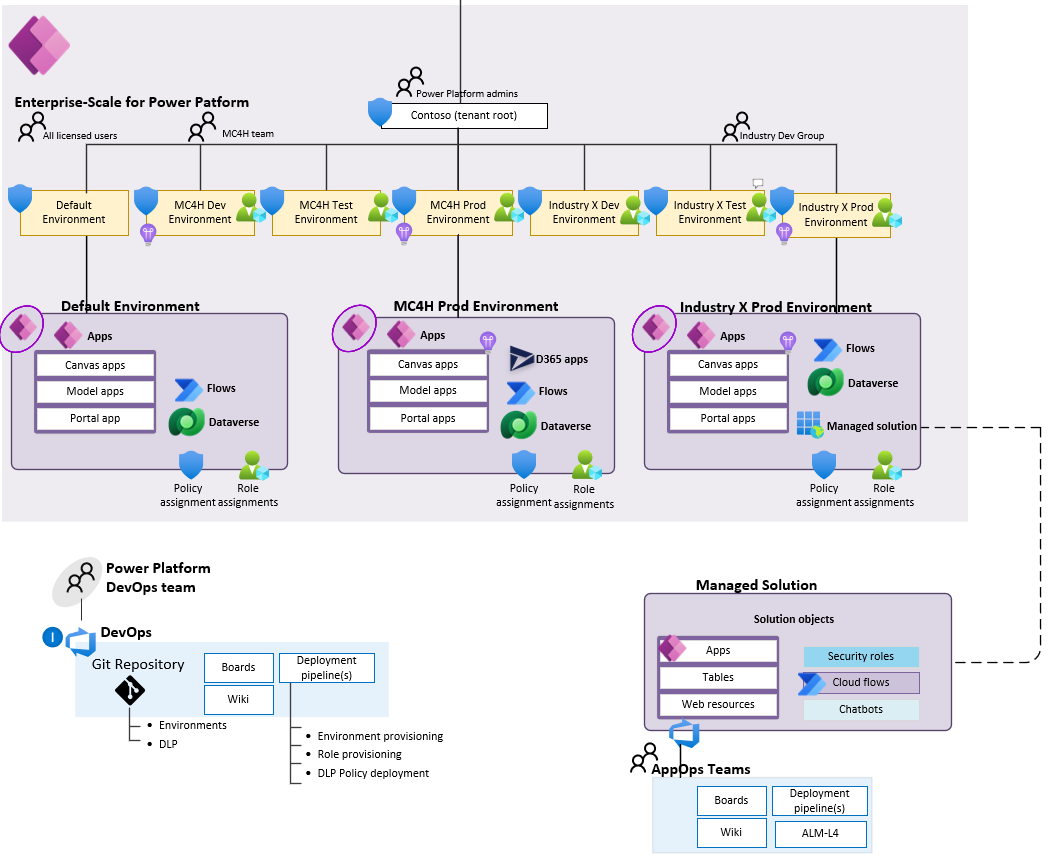
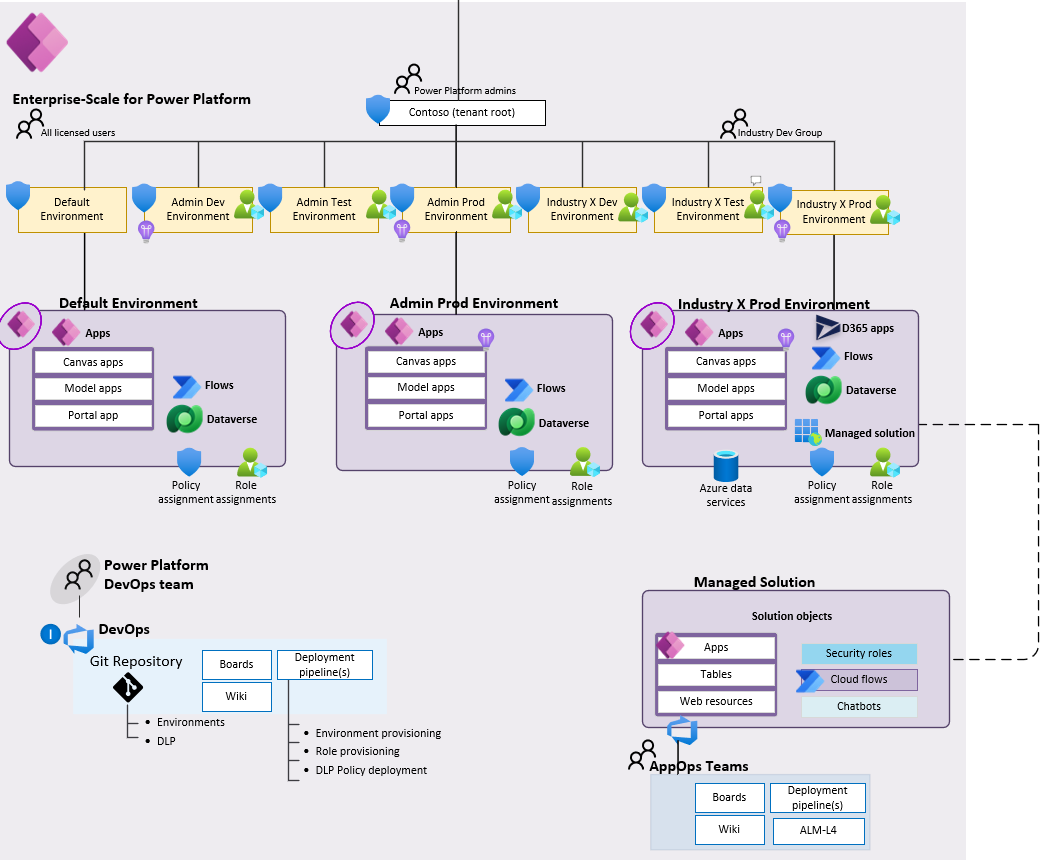
adding recommendations

diff --git a/healthcare/solutions/powerPlatform/readme.md b/healthcare/solutions/powerPlatform/readme.md
@@ -22,7 +22,7 @@ Figure 1 shows the high-level architecture of Enterprise-Scale for Power Platfor
 
 ### Landing zone in Enterprise-Scale for Power Platform
 
-A landing zone (environment) is where pro devs and citizen devs can confidently develop and run their business applications, that accounts for:
+A landing zone (environment) is where professional developers and citizen developers can confidently develop and run their business applications, that accounts for:
 
 * Scale
 * Security
@@ -39,44 +39,12 @@ Figure 2 shows the landing zone (environment) in Power Platform.
 
 The core of enterprise-scale architecture for Power Platform contains a critical design path comprised of fundamental design topics with heavily interrelated and dependent design decisions. This repo provides design guidance across these architecturally significant technical domains to support the critical design decisions that must occur to define the enterprise-scale architecture. For each of the considered domains, review the provided considerations and recommendations and use them to structure and drive designs within each area.
 
-* [Environments](#environments)
 * [Identity and access](#identity-and-access)
 * [Security, governance, and compliance](#security-governance-and-compliance)
+* [Environments](#environments)
 * [Data ingress and egress](#data)
 * [Observability and logging](#observability-and-logging)
 * [Azure VNet connectivity for Power Platform](#azure-vnet-connectivity-for-power-platform)
-
-## Environments
-
-Healthcare applications requires an environment in Power Platform, that must be created and governed upfront and in a supported region for Healthcare.
-The following section describes the design considerations and the design recommendations for Environments, to help you navigate to the correct setup per your organizational requirements.
-
-![Environments for Healthcare](./images/env.png)
-
-### Design considerations
-
-* An environment must be pinned to a location (abstraction of Azure regions), and is determined during creation by the maker/admin, and cannot be changed post creation.
-* Environments are defined out of the box to serve different audiences and purposes like dev, test, production, and personal exploration/development. Depending on what type of environment that is created, it will determine what you can do with the environment as well as the apps within.
-* Each tenant has a default environment and it is created in the region closest to the default region of the Azure AD tenant
-* Data Loss Prevention (DLP) policies can be applied to individual environments or the tenant root ("/") level
-* Non-default environments can be created by licensed Power Apps, Power Automate and
-Dynamics users. Creation can be restricted to only global and service admins via a tenant setting
-* An environment can have one or zero database (Dataverse) instances
-* Environments act as security boundaries allowing different security needs to be implemented in each environment
-
-### Design recommendations
-
-* Rename the Default environment to clarify the intent, e.g., "personal productivity"
-* Disable self-service of Environment creation, both for Production and Sandbox as well as Trials, and limit this to selected Power Platform admins as this can potentially cause capacity constraints in the tenant
-* Enable a process for the organization to request new environments. Either establish and implement the process yourself, or leverage the ["Center of Excellence starter kit"](https://docs.microsoft.com/power-platform/guidance/coe/starter-kit) which provides a solution that can be imported to a dedicated environment to facilitate this, together with other core capabilities.
-* Create dedicated environments for test, development, and production for the Healthcare solutions in the same region, which allows ease of maintenance and validation of changes, such as release wave updates which is per environment
-* The production and development environments for Healthcare must be of type "production", while test environments could be of type "sandbox" to simplify reset process for testing purposes.
-* Limit high privilege access by using an AAD Security Group with PIM for admin access to the environments
-* Create DLP policies to limit data flow between trusted MSFT connectors and 3rd party APIs, aligned with your organizational requirements
-* Manage the correct number of environments in the tenant to avoid sprawl and conserve capacity
-* Enable auditing for your tenant and environments to understand usage and available capacity
-
-To do: End to end architecture reference
 
 ## Identity and access
 
@@ -113,7 +81,40 @@ An environment in Power Platform is an allow-by default system from a policy per
 ### Design recommendations
 
 * Create a data loss prevention policy that enforces the bare minimum security requirements at the tenant scope, to ensure that all landing zones are secure by-default and both pro devs and citizen devs can safely develop business applications that does not vialates the security requirements.
+* The tenant wide policy spanning all environments should prevent all unsupported non-Microsoft connectors, and classify all Microsoft connectors as 'Business data'
+* Create a policy for the default environment that furter restricts which Microsoft connectors are classified as 'Business Data'
 * Establish a process that will always include data-loss prevention policy when creating a new landing zone (environment), to ensure no one are accessing - or starting to create or deploy apps into it that could potentially violate the policies.
+
+## Environments
+
+Healthcare applications requires an environment in Power Platform, that must be created and governed upfront and in a supported region for Healthcare.
+The following section describes the design considerations and the design recommendations for Environments, to help you navigate to the correct setup per your organizational requirements.
+
+![Environments for Healthcare](./images/env.png)
+
+### Design considerations
+
+* An environment must be pinned to a location (abstraction of Azure regions), and is determined during creation by the maker/admin, and cannot be changed post creation.
+* Environments are defined out of the box to serve different audiences and purposes like dev, test, production, and personal exploration/development. Depending on what type of environment that is created, it will determine what you can do with the environment as well as the apps within.
+* Each tenant has a default environment and it is created in the region closest to the default region of the Azure AD tenant
+* Data Loss Prevention (DLP) policies can be applied to individual environments or the tenant root ("/") level
+* Non-default environments can be created by licensed Power Apps, Power Automate and
+Dynamics users. Creation can be restricted to only global and service admins via a tenant setting
+* An environment can have one or zero database (Dataverse) instances
+* Environments act as security boundaries allowing different security needs to be implemented in each environment
+
+### Design recommendations
+
+* Rename the Default environment to clarify the intent, e.g., "personal productivity"
+* Disable self-service of Environment creation, both for Production and Sandbox as well as Trials, and limit this to selected Power Platform admins as this can potentially cause capacity constraints in the tenant
+* Enable a process for the organization to request new environments. Either establish and implement the process yourself, or leverage the ["Center of Excellence starter kit"](https://docs.microsoft.com/power-platform/guidance/coe/starter-kit) which provides a solution that can be imported to a dedicated environment to facilitate this, together with other core capabilities.
+* Have dedicated environments (dev, test, and prod) for management, monitoring, and analytics, that is managed and operated by the Power Platform admins, providing core capabilities for the Power Platform as a whole
+* Create dedicated environments for test, development, and production for the Healthcare solutions in the same region, which allows ease of maintenance and validation of changes, such as release wave updates which is per environment
+* The production and development environments for Healthcare must be of type "production", while test environments could be of type "sandbox" to simplify reset process for testing purposes.
+* Limit high privilege access by using an AAD Security Group with PIM for admin access to the environments
+* Create DLP policies to limit data flow between trusted MSFT connectors and 3rd party APIs, aligned with your organizational requirements
+* Manage the correct number of environments in the tenant to avoid sprawl and conserve capacity
+* Enable auditing for your tenant and environments to understand usage and available capacity
 
 ## Data
 

diff --git a/healthcare/solutions/patientAccess/readme.md b/healthcare/solutions/patientAccess/readme.md
@@ -24,8 +24,8 @@ Specifically for patient access, you need:
 This section provide prescriptive guidance with design considerations and recommendations across the critical design areas for Patient Access portal for the teams that will deploy and manage the Patient Access capabilities within the Microsoft Cloud for Healthcare.
 
 * [Identity and access](#identity-and-access)
+* [Monitoring](#monitoring)
 * [Security](#identity-and-access)
-* [Observability and logging](#security-governance-and-compliance)
 * [Azure VNet connectivity for Power Platform](#azure-vnet-connectivity-for-power-platform)
 
 ## Identity and access
@@ -41,6 +41,20 @@ This section provide prescriptive guidance with design considerations and recomm
 * Allow self-service capabilities for patients via the patient access portal.
   * Those self-service capabilities include booking an appointment, searching for a practicioner, as well as review current appointments.
 * Work-in-progress
+
+## Monitoring
+
+### Design considerations
+
+* Telemetry, metrics, and logs are disabled for portal apps, and must explicitly be enabled and requires Azure Application Insights.
+* Performance and scale are determined by the license add-ons for for portal apps
+* There are multiple identity providers for patients when accesing the self-service portal, including Azure AD B2B, Microsoft Accounts and others.
+
+### Design recommendations
+
+* Use a dedicated Azure Application Insights instance, connected with Log Analytics to capture key telemetry, metrics, and logs for the portal apps.
+* Create alerts and views to monitor usage, such as logins, performance, and response time in order to make informed decision around need for additional add-on licensing
+* If portal apps are used externally, ensure you have purchased required add-on capacity to meet expected peak
 
 ## Implementation guide for Patient Access
 
